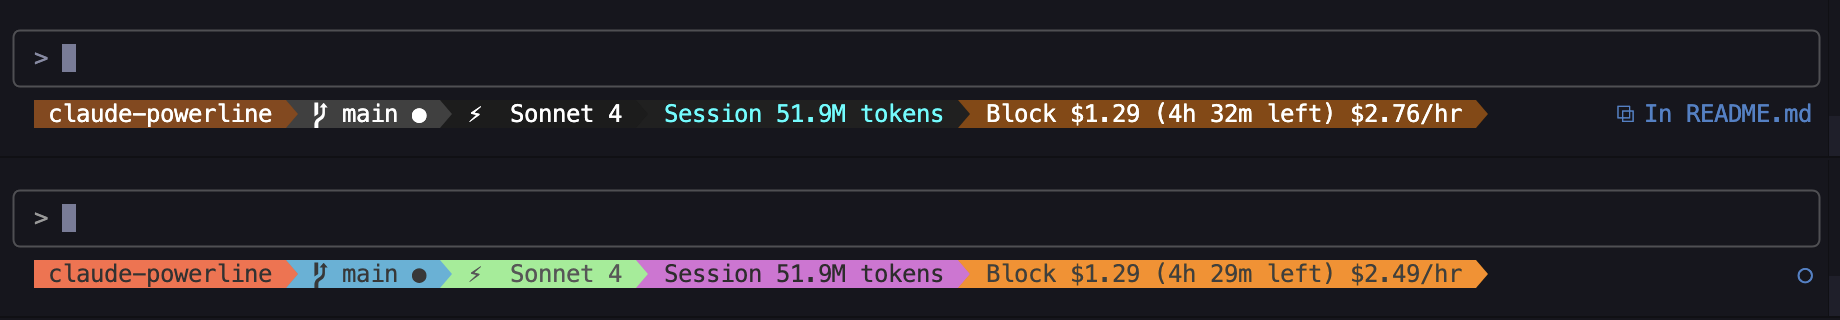
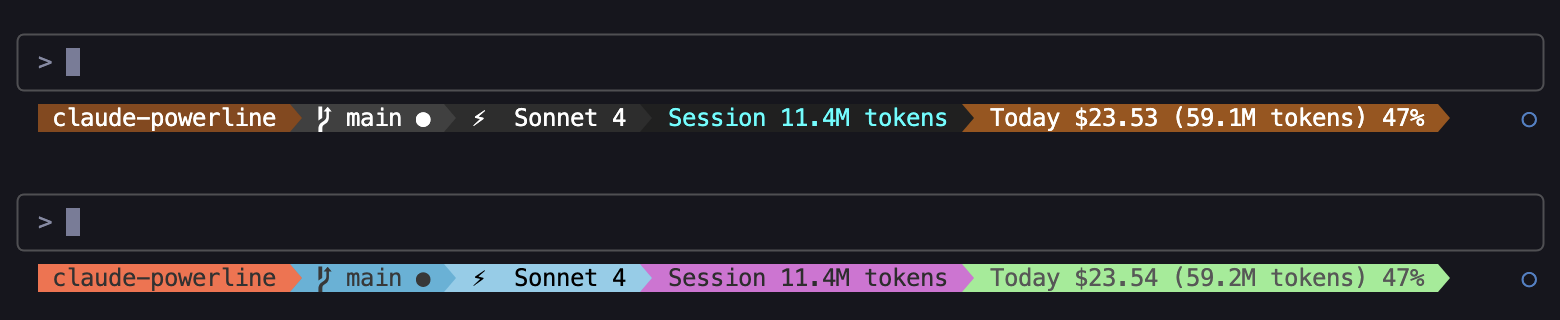
fix: correct model segment color mapping and improve today segment visibility

Changed region(s): [[0.0, 0.5938, 1.0, 0.9375], [0.0, 0.0938, 1.0, 0.4375]]

diff --git a/src/powerline.ts b/src/powerline.ts
@@ -170,6 +170,8 @@ export class PowerlineRenderer {
       modeFg: hexToAnsi(colorTheme.directory.fg, false),
       gitBg: hexToAnsi(colorTheme.git.bg, true),
       gitFg: hexToAnsi(colorTheme.git.fg, false),
+      modelBg: hexToAnsi(colorTheme.model.bg, true),
+      modelFg: hexToAnsi(colorTheme.model.fg, false),
       sessionBg: hexToAnsi(colorTheme.session.bg, true),
       sessionFg: hexToAnsi(colorTheme.session.fg, false),
       todayBg: hexToAnsi(colorTheme.today.bg, true),
@@ -193,7 +195,7 @@ export class PowerlineRenderer {
       case "git":
         return colors.gitBg;
       case "model":
-        return colors.todayBg;
+        return colors.modelBg;
       case "session":
         return colors.sessionBg;
       case "today":

diff --git a/src/config/defaults.ts b/src/config/defaults.ts
@@ -35,7 +35,7 @@ export const DEFAULT_CONFIG: PowerlineConfig = {
       git: { bg: "#404040", fg: "#ffffff" },
       model: { bg: "#2d2d2d", fg: "#ffffff" },
       session: { bg: "#202020", fg: "#00ffff" },
-      today: { bg: "#1c1c1c", fg: "#ffffff" },
+      today: { bg: "#a0520d", fg: "#ffffff" },
       block: { bg: "#8b4500", fg: "#ffffff" },
       tmux: { bg: "#2f4f2f", fg: "#90ee90" },
     },

diff --git a/src/lib/segment-renderer.ts b/src/lib/segment-renderer.ts
@@ -88,8 +88,8 @@ export class SegmentRenderer {
 
     return {
       text: `${this.symbols.model} ${modelName}`,
-      bgColor: colors.todayBg,
-      fgColor: colors.todayFg,
+      bgColor: colors.modelBg,
+      fgColor: colors.modelFg,
     };
   }
 

diff --git a/src/types/index.ts b/src/types/index.ts
@@ -19,6 +19,8 @@ export interface PowerlineColors {
   modeFg: string;
   gitBg: string;
   gitFg: string;
+  modelBg: string;
+  modelFg: string;
   sessionBg: string;
   sessionFg: string;
   todayBg: string;
